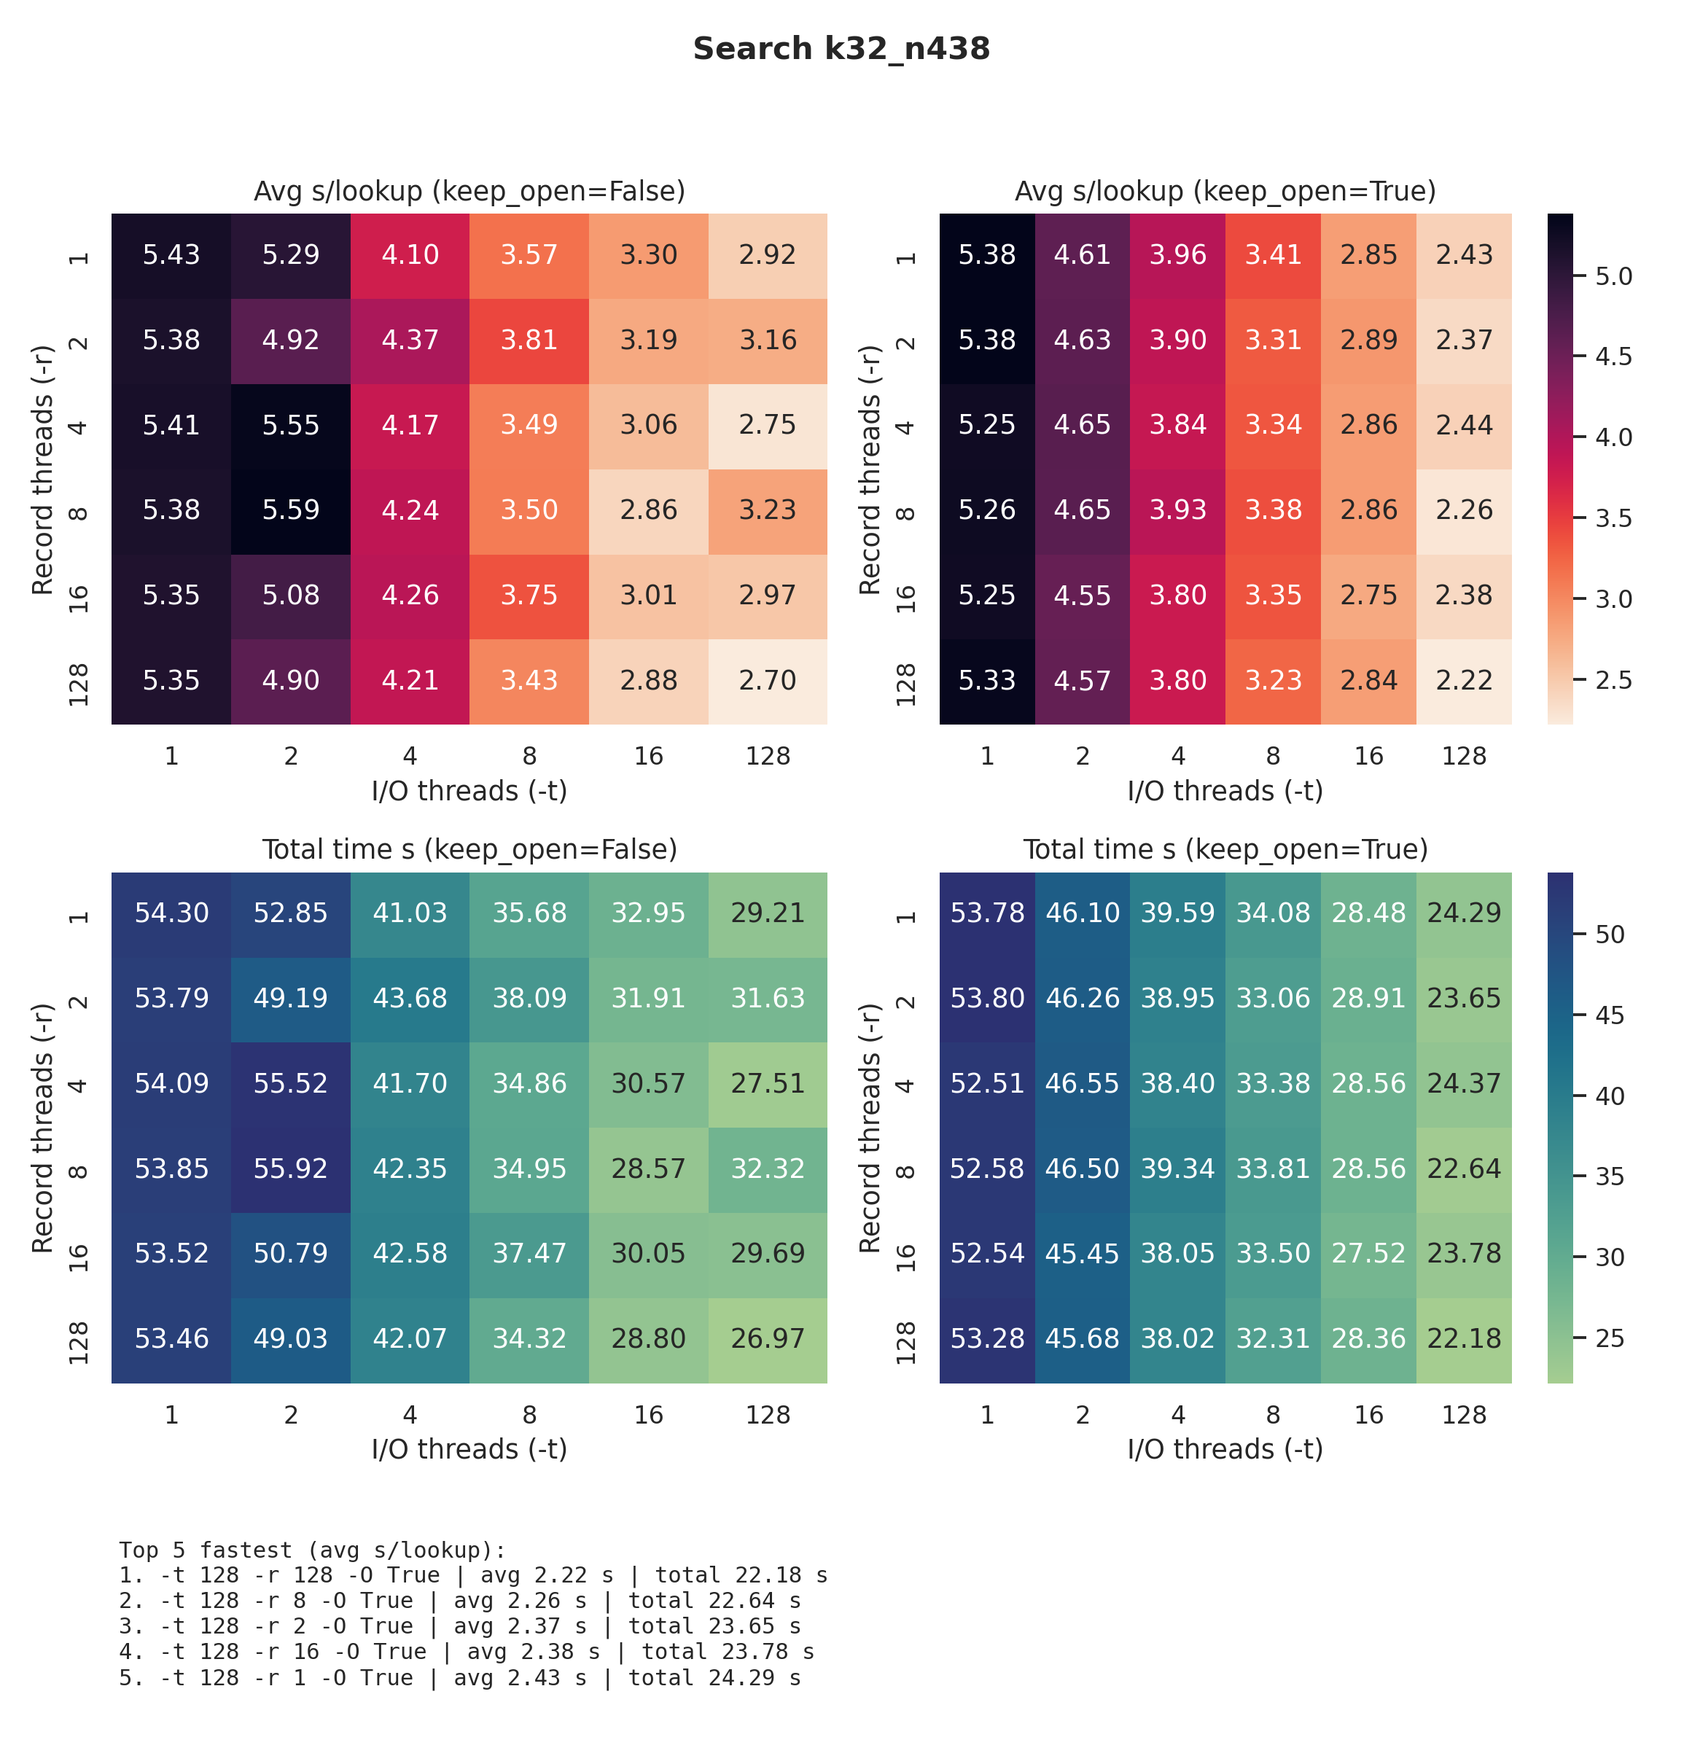
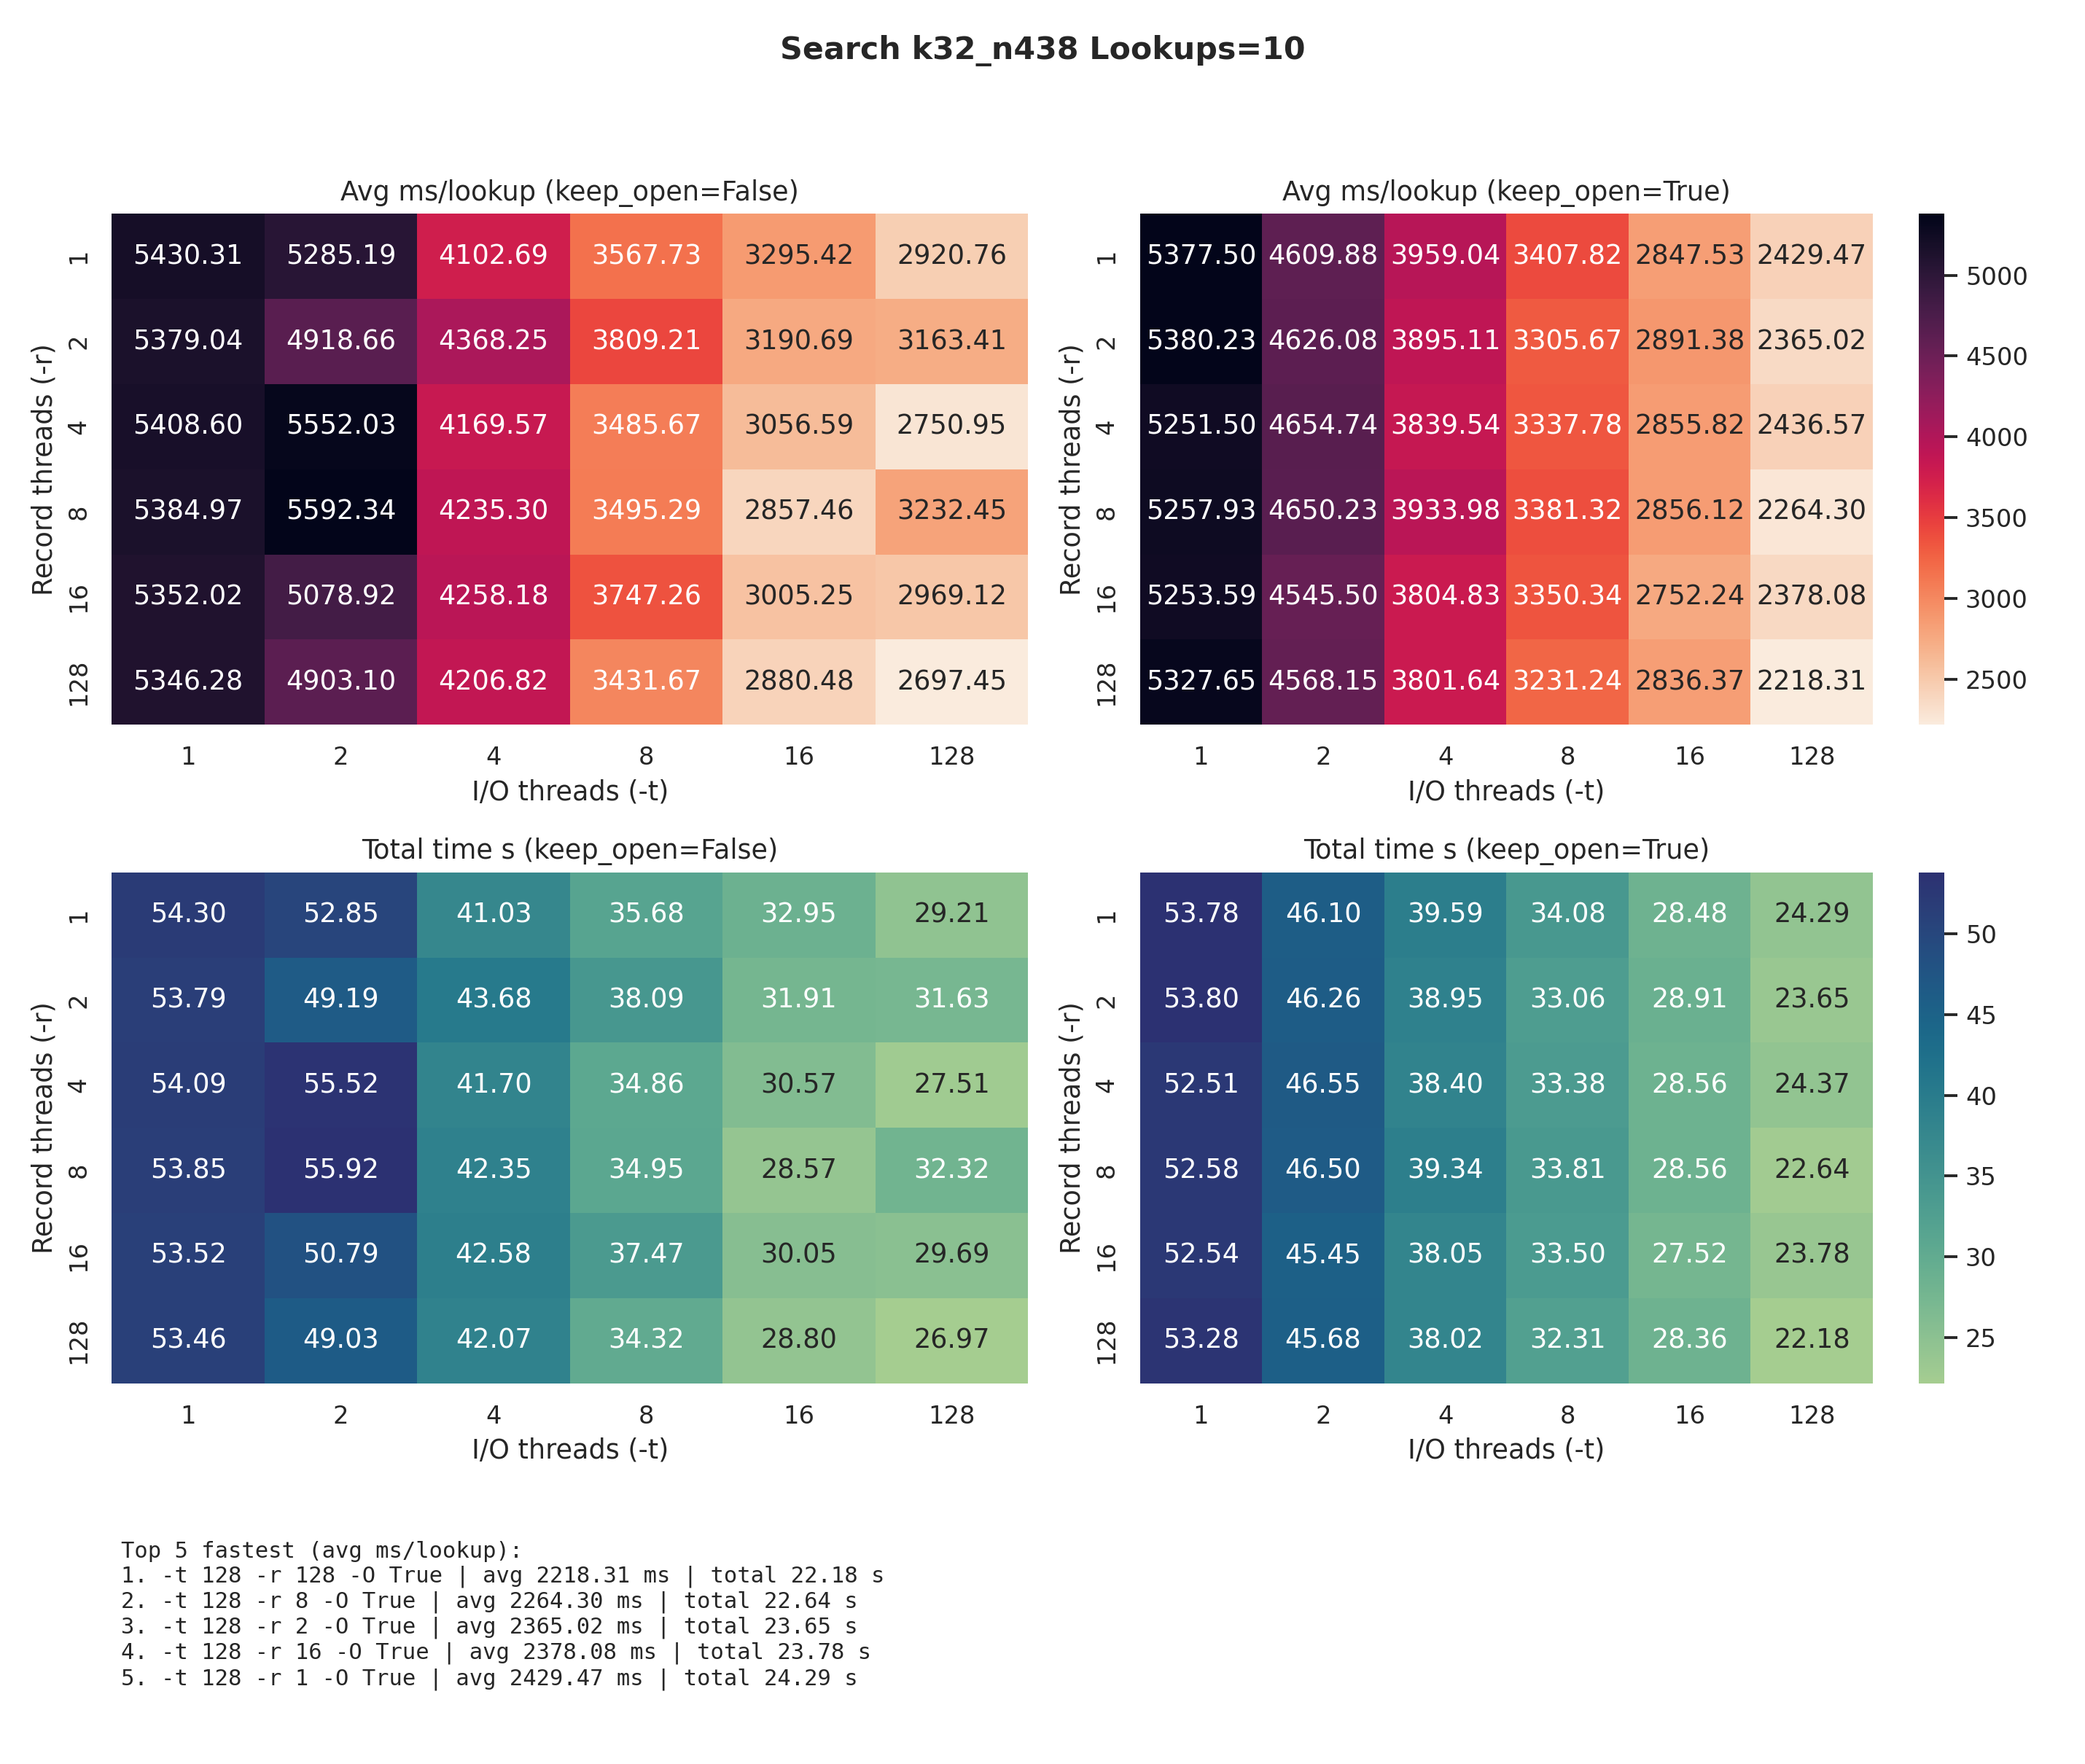
Displaying average lookups in ms and totals in s

diff --git a/scripts/plot_search_results.py b/scripts/plot_search_results.py
@@ -67,6 +67,7 @@ def make_heatmaps(
     total_label: str,
     avg_fmt: str,
     total_fmt: str,
+    leaderboard_avg_col: str,
 ) -> plt.Figure:
     sns.set_theme(style="whitegrid", font_scale=1.0)
     cmap_avg = sns.color_palette("rocket_r", as_cmap=True)
@@ -75,7 +76,7 @@ def make_heatmaps(
     fig, axes = plt.subplots(
         nrows=3,
         ncols=len(keep_values),
-        figsize=(4.5 * len(keep_values) + 1.5, 11.0),
+        figsize=(5.5 * len(keep_values) + 2.0, 11.0),
         squeeze=False,
         gridspec_kw={"height_ratios": [1.0, 1.0, 0.4]},
     )
@@ -127,16 +128,16 @@ def make_heatmaps(
     # Leaderboard (top 5 fastest avg lookups) placed in bottom-left cell; others hidden.
     leaderboard_ax = axes[2, 0]
     axes[2, 1:] = [ax.axis("off") for ax in axes[2, 1:]]
-    top = df.sort_values(avg_col).head(5)
+    top = df.sort_values(leaderboard_avg_col).head(5)
     lines = [
-        f"{i+1}. -t {row.t} -r {row.r} -O {row.keep_open} | avg {row[avg_col]:.2f} s | total {row[total_col]:.2f} s"
+        f"{i+1}. -t {row.t} -r {row.r} -O {row.keep_open} | avg {row[leaderboard_avg_col]:.2f} ms | total {row[total_col]:.2f} s"
         for i, row in top.reset_index(drop=True).iterrows()
     ]
     leaderboard_ax.axis("off")
     leaderboard_ax.text(
         0.01,
         0.95,
-        "Top 5 fastest (avg s/lookup):\n" + "\n".join(lines),
+        "Top 5 fastest (avg ms/lookup):\n" + "\n".join(lines),
         va="top",
         ha="left",
         fontsize=10,
@@ -177,10 +178,12 @@ def main() -> None:
     keep_values = sorted(df["keep_open"].unique())
 
     # Unit handling
-    # Always display in seconds: convert avg from ms to seconds, keep total as seconds.
-    df["avg_disp"] = df["avg_ms_per_lookup"] / 1000.0
+    # Top heatmaps: show avg lookup times in milliseconds.
+    df["avg_heatmap"] = df["avg_ms_per_lookup"]
+    # Leaderboard uses ms for avg; totals remain in seconds.
+    df["avg_leader_ms"] = df["avg_ms_per_lookup"]
     df["total_disp"] = df["total_s"]
-    avg_label = "Avg s/lookup"
+    avg_label = "Avg ms/lookup"
     total_label = "Total time s"
     avg_fmt = ".2f"
     total_fmt = ".2f"
@@ -188,12 +191,13 @@ def main() -> None:
     fig = make_heatmaps(
         df,
         keep_values,
-        avg_col="avg_disp",
+        avg_col="avg_heatmap",
         total_col="total_disp",
         avg_label=avg_label,
         total_label=total_label,
         avg_fmt=avg_fmt,
         total_fmt=total_fmt,
+        leaderboard_avg_col="avg_leader_ms",
     )
 
     title_text = args.title or f"VAULTX search benchmark ({csv_path.name})"
